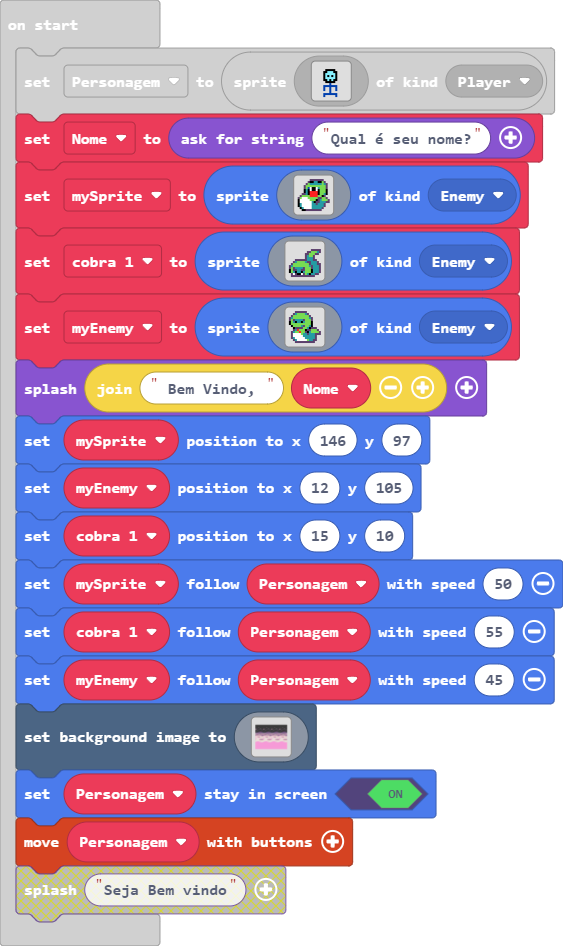
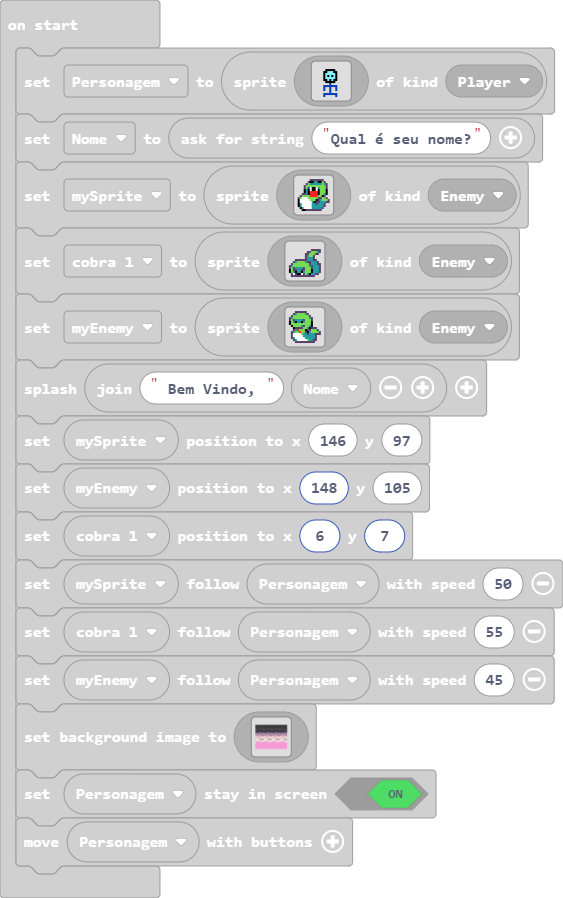
Mudanças

diff --git a/main.ts b/main.ts
@@ -78,8 +78,8 @@ let myEnemy = sprites.create(img`
     `, SpriteKind.Enemy)
 game.splash(" Bem Vindo, " + Nome)
 mySprite.setPosition(146, 97)
-myEnemy.setPosition(12, 105)
-cobra_1.setPosition(15, 10)
+myEnemy.setPosition(148, 105)
+cobra_1.setPosition(6, 7)
 mySprite.follow(Personagem, 50)
 cobra_1.follow(Personagem, 55)
 myEnemy.follow(Personagem, 45)
